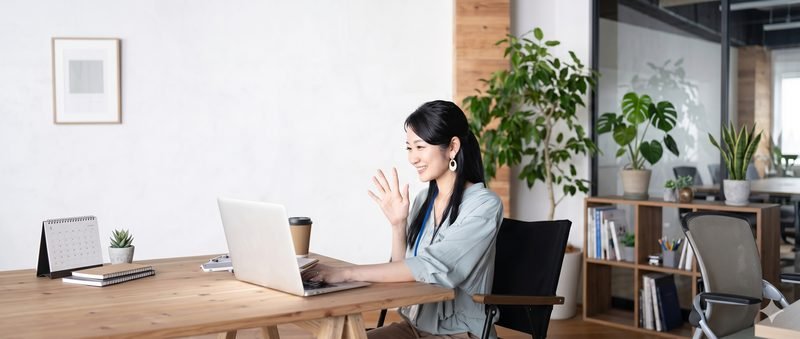
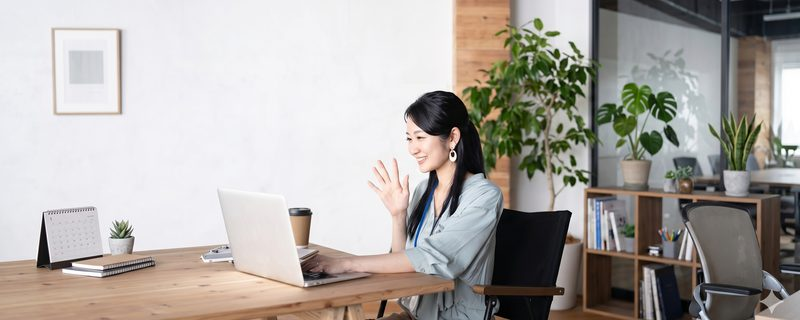
修正: タイムライン写真を800×320・高さ220pxに統一

diff --git a/student/index.html b/student/index.html
@@ -169,7 +169,7 @@
           <div class="timeline__content">
             <h3 class="timeline__title">自己分析セミナー「わたしブランディング講座」<br><span class="timeline__date">（リアル・オンデマンド：6/16(火)10:30-12:00）</span></h3>
             <p class="timeline__desc">自己理解を深化させ、自分の強みや価値観を言語化。キャリアの方向性を見つけます。</p>
-            <img src="../img/seminar-01.png" alt="セミナーの様子" class="timeline__img timeline__photo">
+            <img src="../img/seminar-01.jpg" alt="セミナーの様子" class="timeline__img timeline__photo">
           </div>
         </div>
         <div class="timeline__item">

diff --git a/css/student.css b/css/student.css
@@ -245,15 +245,15 @@
 }
 
 .timeline__img {
-  height: 160px;
+  height: 220px;
 }
 
 .timeline__photo {
   width: 100%;
-  object-fit: contain;
+  height: 220px;
+  object-fit: cover;
   border-radius: 8px;
   display: block;
-  background: var(--color-bg-gray);
 }
 
 /* --- Community --- */
